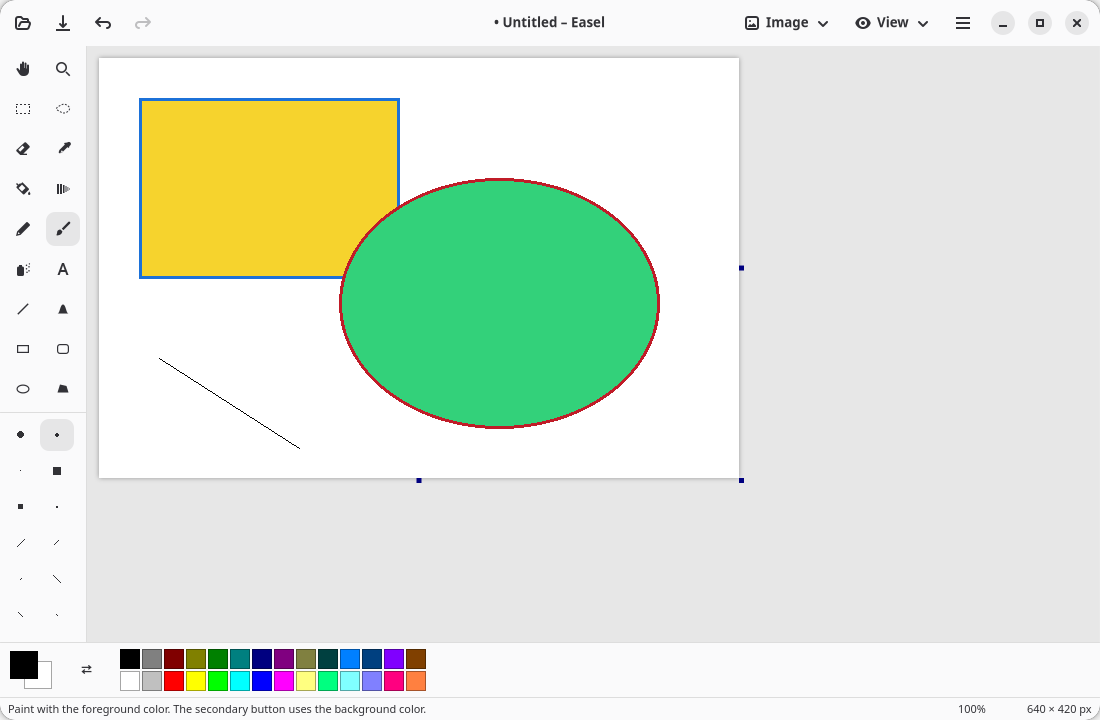
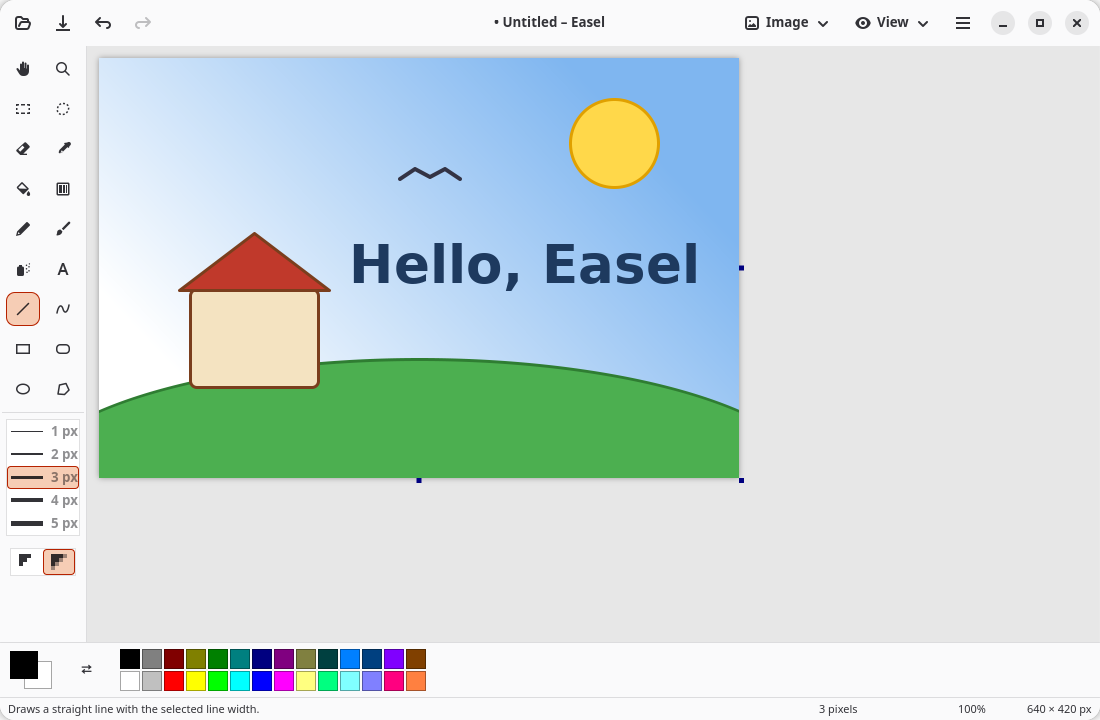
Show today's Easel in the README's screenshot
The screenshot was the alpha's: two hard-edged shapes and the old
toolbox. A probe now draws a picture through the app's own tools (a
gradient sky, smooth shapes, a smooth brush stroke and smooth text) and
saves the window's render in the isolated session, so the screenshot
can be made again for each release without touching the desktop.

diff --git a/tests/probe/probe-screenshot.c b/tests/probe/probe-screenshot.c
@@ -1,0 +1,169 @@
+/* SPDX-License-Identifier: GPL-3.0-or-later */
+/* The README's and the metadata's screenshot (data/screenshots/main.png), made again for a release: a 1100 x 720 window with a picture
+   drawn through the app's own tools (a gradient sky, smooth shapes, a smooth brush stroke, smooth text), Line chosen so that its
+   options show Sharp | Smooth, rendered by GTK and saved as PNG. Run through tools/isolated.sh, so that the desktop is untouched and the
+   theme is GNOME's default: tools/isolated.sh build/tests/probe-screenshot data/screenshots/main.png */
+
+#include <glib/gstdio.h>
+#include <string.h>
+
+#include "application.h"
+#include "canvas.h"
+#include "window.h"
+
+static GtkApplication *app;
+
+static void
+wait_frames (EaselWindow *win, int n)
+{
+  GdkFrameClock *clock = gtk_widget_get_frame_clock (GTK_WIDGET (win));
+  gint64 deadline = g_get_monotonic_time () + 3 * G_USEC_PER_SEC;
+  gint64 start = clock != NULL ? gdk_frame_clock_get_frame_counter (clock) : 0;
+
+  while (g_get_monotonic_time () < deadline && (clock == NULL || gdk_frame_clock_get_frame_counter (clock) < start + n))
+    {
+      gtk_widget_queue_draw (GTK_WIDGET (win));
+      g_main_context_iteration (NULL, FALSE);
+      clock = gtk_widget_get_frame_clock (GTK_WIDGET (win));
+    }
+}
+
+static void
+drag (EaselCanvas *canvas, const double *xy, int n)
+{
+  easel_canvas_press (canvas, 1, xy[0] + 0.5, xy[1] + 0.5);
+  for (int k = 1; k < n; k++)
+    easel_canvas_motion (canvas, xy[2 * k] + 0.5, xy[2 * k + 1] + 0.5);
+  easel_canvas_release (canvas, 1);
+}
+
+static void
+key (EaselWindow *win, guint keyval)
+{
+  g_autoptr (GListModel) controllers = gtk_widget_observe_controllers (GTK_WIDGET (win));
+
+  for (guint i = 0; i < g_list_model_get_n_items (controllers); i++)
+    {
+      g_autoptr (GtkEventController) c = g_list_model_get_item (controllers, i);
+      gboolean handled = FALSE;
+
+      if (GTK_IS_EVENT_CONTROLLER_KEY (c))
+        g_signal_emit_by_name (c, "key-pressed", keyval, 0, 0, &handled);
+    }
+}
+
+static void
+tool (EaselWindow *win, const char *name)
+{
+  g_action_group_activate_action (G_ACTION_GROUP (win), "tool", g_variant_new_string (name));
+}
+
+int
+main (int argc, char **argv)
+{
+  g_autofree char *config = g_dir_make_tmp ("easel-shot-XXXXXX", NULL);
+  g_autofree char *dir = g_build_filename (config, "easel", NULL);
+  g_autofree char *settings = g_build_filename (dir, "settings.ini", NULL);
+  EaselWindow *win;
+  EaselCanvas *canvas;
+  gint64 deadline;
+
+  if (argc != 2)
+    {
+      g_printerr ("usage: probe-screenshot OUT.png\n");
+      return 2;
+    }
+  g_setenv ("XDG_CONFIG_HOME", config, TRUE);
+  g_mkdir_with_parents (dir, 0700);
+  g_file_set_contents (settings,
+                       "[new-picture]\nwidth=640\nheight=420\nbackground=#FFFFFF\n\n[drawing]\nsmooth=true\nline-width=3\nfill-style=outline-and-fill\n\n"
+                       "[text]\nfont=DejaVu Sans\nsize=40\nbold=true\nsmooth=true\n",
+                       -1, NULL);
+  if (!gtk_init_check ())
+    return 77;
+  app = easel_application_new ();
+  g_application_set_flags (G_APPLICATION (app), G_APPLICATION_NON_UNIQUE);
+  g_application_register (G_APPLICATION (app), NULL, NULL);
+  g_application_activate (G_APPLICATION (app));
+  win = EASEL_WINDOW (gtk_application_get_active_window (app));
+  gtk_window_set_default_size (GTK_WINDOW (win), 1100, 720);
+  deadline = g_get_monotonic_time () + 5 * G_USEC_PER_SEC;
+  while (easel_window_get_picture (win) == NULL && g_get_monotonic_time () < deadline)
+    g_main_context_iteration (NULL, FALSE);
+  wait_frames (win, 3);
+  canvas = easel_window_get_canvas (win);
+
+  /* a sky: a radial gradient from a soft blue, put down by Enter */
+  tool (win, "gradient");
+  easel_canvas_set_colors (canvas, 0xFF7FB6F0u, 0xFFFFFFFFu);
+  drag (canvas, (const double[]) { 520, 60, 160, 400 }, 2);
+  key (win, GDK_KEY_Return);
+  /* a smooth sun, a hill and a house's walls and roof */
+  tool (win, "ellipse");
+  easel_canvas_set_colors (canvas, 0xFFE0A000u, 0xFFFFD84Au);
+  drag (canvas, (const double[]) { 470, 40, 560, 130 }, 2);
+  easel_canvas_set_colors (canvas, 0xFF2F7D32u, 0xFF4CAF50u);
+  drag (canvas, (const double[]) { -80, 300, 720, 560 }, 2);
+  tool (win, "rounded-rectangle");
+  easel_canvas_set_colors (canvas, 0xFF7A3E1Du, 0xFFF4E3C1u);
+  drag (canvas, (const double[]) { 90, 230, 220, 330 }, 2);
+  tool (win, "polygon");
+  easel_canvas_set_colors (canvas, 0xFF7A3E1Du, 0xFFC0392Bu);
+  drag (canvas, (const double[]) { 80, 232, 155, 175 }, 2);
+  drag (canvas, (const double[]) { 230, 232, 230, 232 }, 2);
+  key (win, GDK_KEY_Return);
+  /* a smooth brush stroke: a bird's wings */
+  tool (win, "brush");
+  easel_canvas_set_colors (canvas, 0xFF333344u, 0xFFFFFFFFu);
+  drag (canvas, (const double[]) { 300, 120, 315, 110, 330, 118, 345, 110, 360, 120 }, 5);
+  /* smooth text */
+  tool (win, "text");
+  easel_canvas_set_colors (canvas, 0xFF1E3A5Fu, 0xFFFFFFFFu);
+  drag (canvas, (const double[]) { 250, 175, 635, 240 }, 2);
+  {
+    EaselTextBuffer *b = easel_canvas_text_buffer (canvas);
+    EaselTextStyle st;
+
+    if (b != NULL)
+      {
+        easel_canvas_text_style_at_caret (canvas, &st);
+        easel_text_buffer_insert (b, "Hello, Easel", strlen ("Hello, Easel"), &st, EASEL_TEXT_EDIT_TYPING);
+        easel_canvas_text_edited (canvas);
+      }
+  }
+  /* Line chosen: its options show the widths and Sharp | Smooth whole; a tool change puts the text down; the focus on the canvas */
+  tool (win, "line");
+  easel_canvas_set_colors (canvas, 0xFF000000u, 0xFFFFFFFFu);
+  gtk_widget_grab_focus (GTK_WIDGET (canvas));
+  gtk_window_set_focus_visible (GTK_WINDOW (win), FALSE);              /* no focus mark on a button in the picture */
+  {
+    /* the styles' fades (a tool button's background when it stops being chosen) take a few hundred milliseconds */
+    gint64 settle = g_get_monotonic_time () + 600 * 1000;
+
+    while (g_get_monotonic_time () < settle)
+      wait_frames (win, 1);
+  }
+  {
+    g_autoptr (GdkPaintable) paintable = gtk_widget_paintable_new (GTK_WIDGET (win));
+    int w = gtk_widget_get_width (GTK_WIDGET (win)), h = gtk_widget_get_height (GTK_WIDGET (win));
+    GtkSnapshot *snapshot = gtk_snapshot_new ();
+    g_autoptr (GskRenderNode) node = NULL;
+    g_autoptr (GdkTexture) texture = NULL;
+    GskRenderer *renderer = gtk_native_get_renderer (GTK_NATIVE (win));
+
+    gdk_paintable_snapshot (paintable, snapshot, w, h);
+    node = gtk_snapshot_free_to_node (snapshot);
+    if (node == NULL || renderer == NULL)
+      return 1;
+    texture = gsk_renderer_render_texture (renderer, node, &GRAPHENE_RECT_INIT (0, 0, (float) w, (float) h));
+    if (!gdk_texture_save_to_png (texture, argv[1]))
+      return 1;
+    g_print ("wrote %s (%d x %d)\n", argv[1], w, h);
+  }
+  gtk_window_destroy (GTK_WINDOW (win));
+  g_object_unref (app);
+  g_remove (settings);
+  g_rmdir (dir);
+  g_rmdir (config);
+  return 0;
+}
